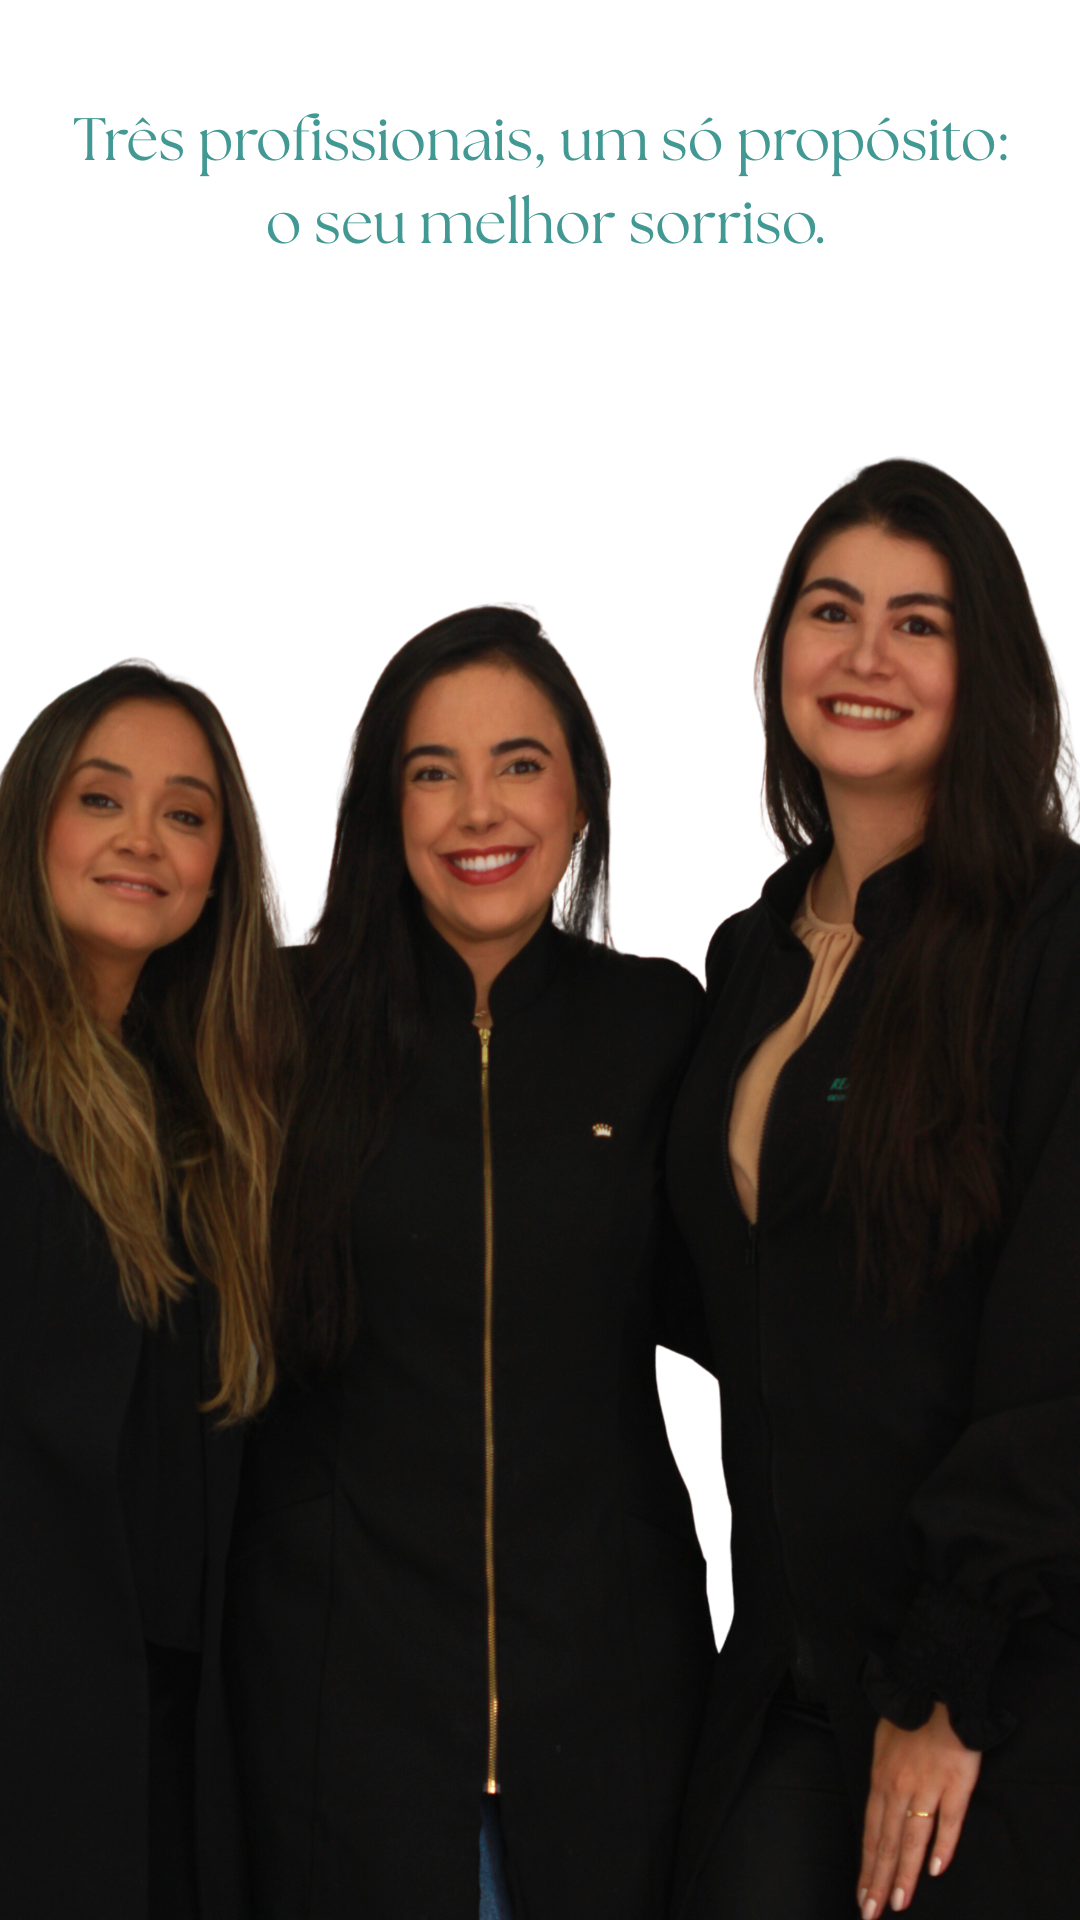
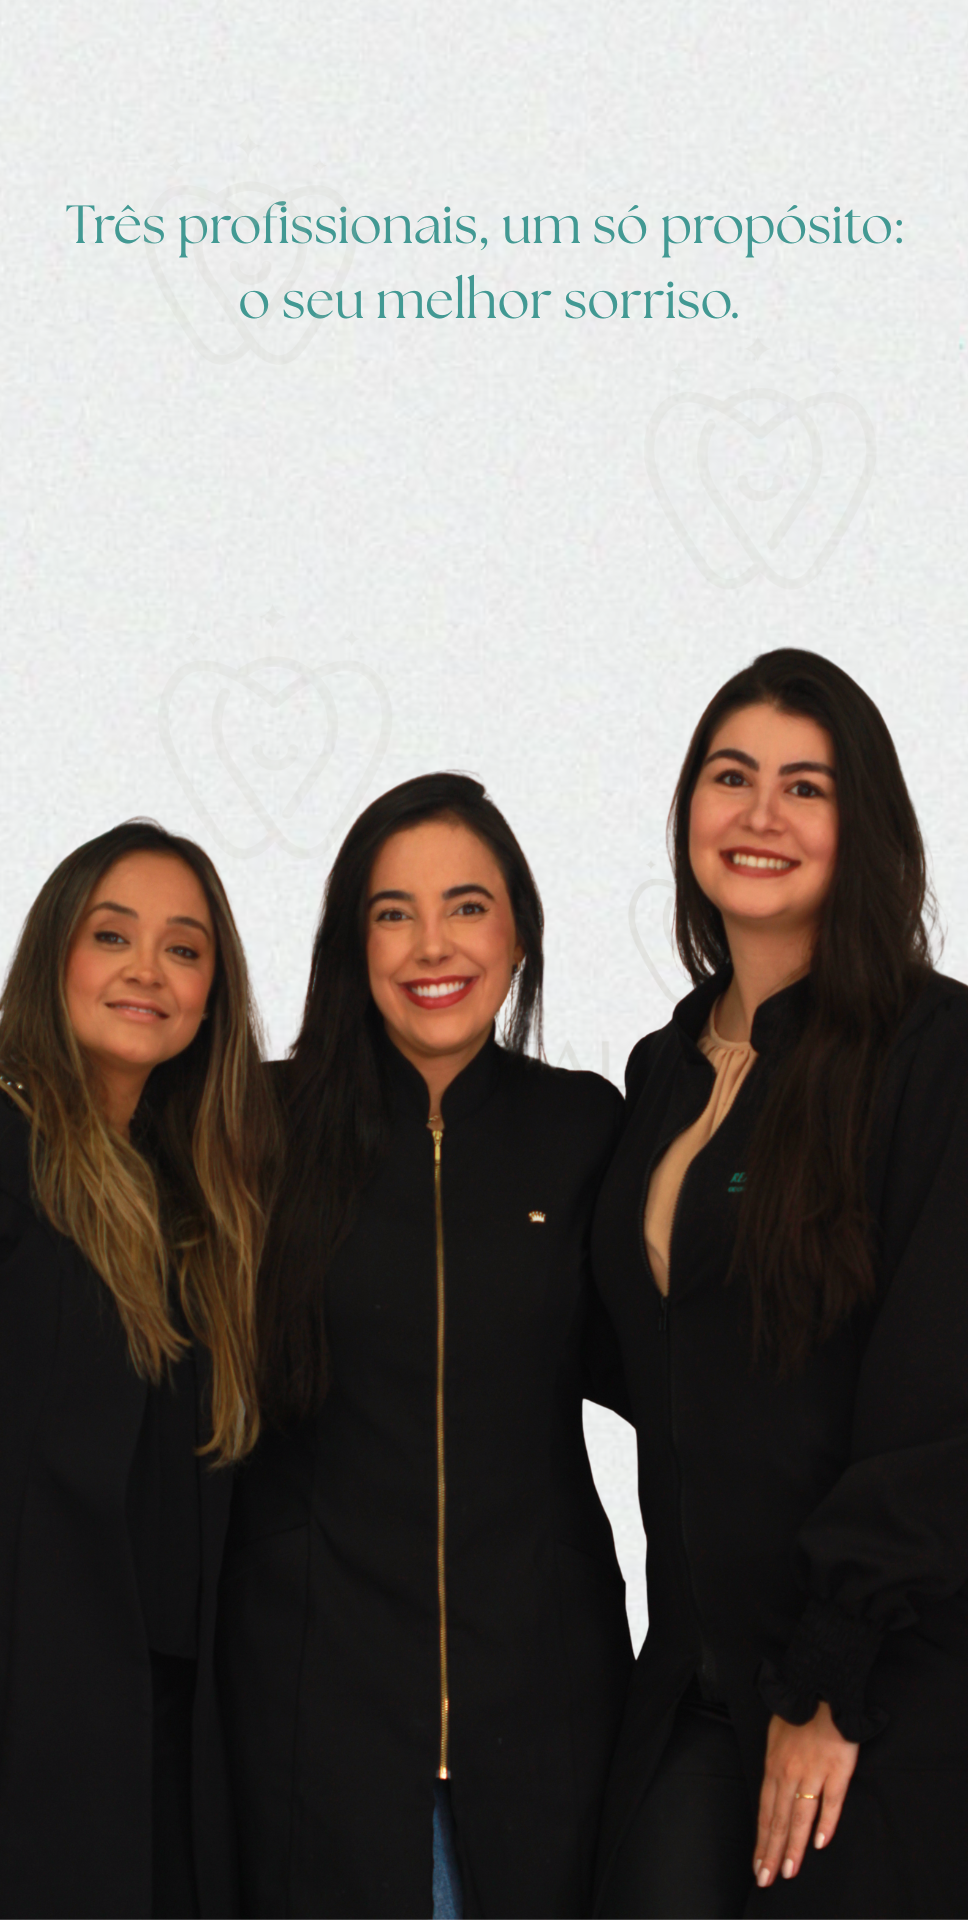
ajuste sobrenos img

diff --git a/css/home/sobrenos.css b/css/home/sobrenos.css
@@ -18,12 +18,9 @@
 
 .sobrenos-imagem img {
   width: 100% !important;
-  padding-top: 50px !important;
   height: 100% !important;
-  object-fit: contain !important; /* garante que a imagem não seja cortada */
+  object-fit: cover !important; /* garante que a imagem não seja cortada */
   border-radius: 4px !important;
-  background-color: white !important;
-
 }
 
 

diff --git a/index.html b/index.html
@@ -51,7 +51,7 @@
   </main>
 
   <article class="servicos-lista">
-    <h2 class="container font-1-xxl"> Conheça nossos serviços<span>.</span></h2>
+    <h2 class="container font-1-xxl"> Conheça nossos tratamentos<span>.</span></h2>
     <div class="arrow left" onclick="scrollLeft()">&#10094;</div>
     <ul>
       <li>
